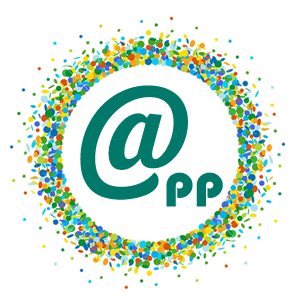
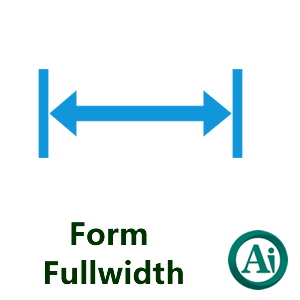
fix #IBV132 app_web_fullwidth升级到18正常，原参考模块已有18版置于目录中 置顶

diff --git a/app_web_fullwidth/static/src/js/form_compiler.js b/app_web_fullwidth/static/src/js/form_compiler.js
@@ -1,123 +1,67 @@
 /** @odoo-module **/
+import { FormCompiler } from "@web/views/form/form_compiler";
+import { patch } from "@web/core/utils/patch";
 
-import {patch} from "@web/core/utils/patch";
-import {append} from "@web/core/utils/xml";
-import {MailFormCompiler} from "@mail/views/form/form_compiler";
-import {FormCompiler} from "@web/views/form/form_compiler";
-import {FormController} from "@web/views/form/form_controller";
-
-patch(MailFormCompiler.prototype, "web_chatter_position", {
-    /**
-     * Patch the visibility of the Sided chatter (`C` above).
-     *
-     * @override
-     */
-    compile() {
-        const res = this._super.apply(this, arguments);
-        const chatterContainerHookXml = res.querySelector(
-            ".o_FormRenderer_chatterContainer"
-        );
-        if (!chatterContainerHookXml) {
-            return res;
-        }
-        // Don't patch anything if the setting is "auto": this is the core behaviour
-        if (odoo.web_chatter_position === "auto") {
-            return res;
-        } else if (odoo.web_chatter_position === "sided") {
-            chatterContainerHookXml.setAttribute("t-if", "!hasAttachmentViewer()");
-        } else if (odoo.web_chatter_position === "bottom") {
-            chatterContainerHookXml.setAttribute("t-if", false);
-        }
-        return res;
-    },
-});
-
-patch(FormCompiler.prototype, "web_chatter_position", {
-    /**
-     * Patch the css classes of the `Form`, to include an extra `h-100` class.
-     * Without it, the form sheet will not be full height in some situations,
-     * looking a bit weird.
-     *
-     * @override
-     */
-    compileForm() {
-        const res = this._super.apply(this, arguments);
+patch(FormCompiler.prototype, {
+    compileForm(el, params) {
+        const res = super.compileForm(el, params);
         if (odoo.web_chatter_position === "sided") {
             const classes = res.getAttribute("t-attf-class");
-            res.setAttribute("t-attf-class", `${classes} h-100`);
+            const newClasses = classes.replace('{{ __comp__.uiService.size < 6 ? "flex-column" : "flex-nowrap h-100" }}', 'flex-nowrap h-100')
+            res.setAttribute("t-attf-class", `${newClasses}`);
+            return res;
         }
+
+        else if (odoo.web_chatter_position === "bottom") {
+            const classes = res.getAttribute("t-attf-class");
+            const formView = res.getElementsByClassName('o_form_sheet_bg')[0];
+
+            if (formView) {
+                formView.classList.add('customBottom');
+                const formParent = formView.parentElement;
+
+                if (formParent) {
+                    const chatter = formParent.querySelector('.o-mail-Form-chatter');
+                    if (chatter) {
+                        chatter.classList.add('customBottom');
+                    }
+                }
+
+                const newClasses = classes.replace('{{ __comp__.uiService.size < 6 ? "flex-column" : "flex-nowrap h-100" }}', 'flex-column');
+                res.setAttribute("t-attf-class", `${newClasses}`);
+            }
+
+            return res;
+        }
+
         return res;
     },
-    /**
-     * Patch the visibility of bottom chatters (`A` and `B` above).
-     * `B` may not exist in some situations, so we ensure it does by creating it.
-     *
-     * @override
-     */
+
     compile(node, params) {
-        const res = this._super.apply(this, arguments);
-        const chatterContainerHookXml = res.querySelector(
-            ".o_FormRenderer_chatterContainer:not(.o-isInFormSheetBg)"
-        );
+        const res = super.compile(node, params);
+
+        const chatterContainerHookXml = res.querySelector(".o-mail-Form-chatter");
         if (!chatterContainerHookXml) {
-            return res;
+            return res; // no chatter, keep the result as it is
         }
-        if (chatterContainerHookXml.parentNode.classList.contains("o_form_sheet")) {
-            return res;
+
+        if (odoo.web_chatter_position === "sided") {
+            const classes = chatterContainerHookXml.getAttribute("t-attf-class")
+            if(classes){
+                const newClasses = classes.replace('{{ __comp__.uiService.size >= 6 ? "o-aside" : "mt-4 mt-md-0" }}', 'o-aside')
+                res.setAttribute("t-attf-class", `${newClasses}`);
+            }
+            return res
         }
-        // Don't patch anything if the setting is "auto": this is the core behaviour
-        if (odoo.web_chatter_position === "auto") {
-            return res;
-            // For "sided", we have to remote the bottom chatter
-            // (except if there is an attachment viewer, as we have to force bottom)
-        } else if (odoo.web_chatter_position === "sided") {
-            const formSheetBgXml = res.querySelector(".o_form_sheet_bg");
-            if (!formSheetBgXml) {
-                return res;
+        else if (odoo.web_chatter_position === "bottom") {
+            const classes = chatterContainerHookXml.getAttribute("t-attf-class")
+            if(classes){
+                const newClasses = classes.replace('{{ __comp__.uiService.size >= 6 ? "o-aside" : "mt-4 mt-md-0" }}', 'mt-4 mt-md-0')
+                res.setAttribute("t-attf-class", `${newClasses}`);
             }
-            chatterContainerHookXml.setAttribute("t-if", false);
-            // For "bottom", we keep the chatter in the form sheet
-            // (the one used for the attachment viewer case)
-            // If it's not there, we create it.
-        } else if (odoo.web_chatter_position === "bottom") {
-            if (params.hasAttachmentViewerInArch) {
-                const sheetBgChatterContainerHookXml = res.querySelector(
-                    ".o_FormRenderer_chatterContainer.o-isInFormSheetBg"
-                );
-                sheetBgChatterContainerHookXml.setAttribute("t-if", true);
-                chatterContainerHookXml.setAttribute("t-if", false);
-            } else {
-                const formSheetBgXml = res.querySelector(".o_form_sheet_bg");
-                if (!formSheetBgXml) {
-                    return res;
-                }
-                const sheetBgChatterContainerHookXml =
-                    chatterContainerHookXml.cloneNode(true);
-                sheetBgChatterContainerHookXml.classList.add("o-isInFormSheetBg");
-                sheetBgChatterContainerHookXml.setAttribute("t-if", true);
-                append(formSheetBgXml, sheetBgChatterContainerHookXml);
-                const sheetBgChatterContainerXml =
-                    sheetBgChatterContainerHookXml.querySelector("ChatterContainer");
-                sheetBgChatterContainerXml.setAttribute("isInFormSheetBg", "true");
-                chatterContainerHookXml.setAttribute("t-if", false);
-            }
+            return res
         }
         return res;
     },
 });
 
-patch(FormController.prototype, "web_chatter_position", {
-    /**
-     * Patch the css classes of the form container, to include an extra `flex-row` class.
-     * Without it, it'd go for flex columns direction and it won't look good.
-     *
-     * @override
-     */
-    get className() {
-        const result = this._super();
-        if (odoo.web_chatter_position === "sided") {
-            result["flex-row"] = true;
-        }
-        return result;
-    },
-});

diff --git a/app_web_fullwidth/static/src/scss/app_style_after.scss b/app_web_fullwidth/static/src/scss/app_style_after.scss
@@ -8,60 +8,16 @@
 
 //16 是在 xxl 才 flex row，故不需要再特殊处理了
 
-/*
-sheet全宽
-*/
-@media (min-width: 576px) {
-  .o_form_view .o_form_view_container .o_form_sheet_bg .o_form_sheet {
-    max-width: 98%;
-  }
-}
-
-@media (min-width: 768px) {
-  .o_form_view .o_form_view_container .o_form_sheet_bg .o_form_sheet {
-    max-width: 98%;
-  }
-}
-
-@media (min-width: 992px) {
-  .o_form_view .o_form_view_container .o_form_sheet_bg .o_form_sheet {
-    max-width: 98%;
-  }
-}
-
-@media (min-width: 1200px) {
-  .o_form_view .o_form_view_container .o_form_sheet_bg .o_form_sheet {
-    max-width: 98%;
-  }
-}
-
 @media (min-width: 1400px) {
-  .o_form_view .o_form_view_container .o_form_sheet_bg .o_form_sheet {
-    max-width: 98%;
-    //todo: button box 增加数量，当前无效。 button_box.js 中有 visibleButtons
-    //.o-form-buttonbox .btn.oe_stat_button, .o-form-buttonbox > .o_field_widget  {
-    //  width: 10%;
-    //}
+  .o-mail-Form-chatter.customBottom {
+    width: 100% !important;
   }
-}
-.o_web_client .o_form_view.o_xxl_form_view .o_form_sheet_bg > .o_form_sheet {
-  max-width: 98%;
-}
 
-//xs: 0,
-//vsm: 475px,
-//sm: 576px,
-//md: 768px,
-//lg: 992px,
-//xl: 1200px,
-//xxl: 1534px,
+  .o_form_view.o_xxl_form_view .customBottom {
+    flex: auto !important;
+  }
 
-//debug model 时处理
-.modal-lg {
-    .o_debug_manager {
-        .dropdown-menu-right {
-            right: auto;
-            left: 0;
-        }
-    }
+  .o_form_view .customBottom {
+    max-width: none !important;
+  }
 }

diff --git a/app_web_enterprise/static/src/scss/app_style_after.scss b/app_web_enterprise/static/src/scss/app_style_after.scss
@@ -1,3 +1,4 @@
+
 // 不显示 tooltip
 .o_tooltip.o_tooltip_visible  {
   display: none;
@@ -67,38 +68,24 @@
       }
     .o_form_sheet_bg .o_form_sheet {
       margin: 6px auto;
-      max-width: 98%;
     }
   }
 }
 
 @media (min-width: 768px) {
-  .o_form_view .o_form_view_container .o_form_sheet_bg .o_form_sheet {
-    max-width: 98%;
-  }
-  .o_form_view .o_form_view_container .o_notebook .o_notebook_headers {
-    overflow-x: inherit;
+  .o_form_view .o_form_view_container .o_notebook {
+    //优化 page 头滚动
+    .o_notebook_headers {
+      overflow-x: inherit;
+    }
+
+    //优化 table 的竖滚动
+    .o_list_renderer.table-responsive {
+      overflow-y: clip;
+    }
   }
 }
 
-@media (min-width: 992px) {
-  .o_form_view .o_form_view_container .o_form_sheet_bg .o_form_sheet {
-    max-width: 98%;
-  }
-}
-
-@media (min-width: 1200px) {
-  .o_form_view .o_form_view_container .o_form_sheet_bg .o_form_sheet {
-    max-width: 98%;
-  }
-}
-
-
-@media (min-width: 1400px) {
-  .o_form_view .o_form_view_container .o_form_sheet_bg .o_form_sheet {
-    max-width: 98%;
-  }
-}
 // 编辑模式默认 input下方border 有颜色。必填的深色
 .o_form_view {
   .o_form_view_container {
@@ -164,7 +151,11 @@
 .o_notebook {
   --notebook-link-border-color-active: #{$border-color};
   .nav-link.active, .nav-link.active:hover, .nav-link.active:focus, .nav-link.active:active {
-    border-bottom: 1.5px solid #{$o-brand-lightsecondary};
+    border-left-color: var(--notebook-link-border-color-active-accent, var(--notebook-link-border-color-active));
+    border-right-color: var(--notebook-link-border-color-active-accent, var(--notebook-link-border-color-active));
+    @media (max-width: 768px) {
+      border-bottom: 1.5px solid #{$o-brand-lightsecondary};
+    }
   }
 }
 //end form

diff --git a/app_web_fullwidth/static/description/index.html b/app_web_fullwidth/static/description/index.html
@@ -1,3 +1,18 @@
+<?xml version="1.0" encoding="utf-8"?>
+<!--
+# -*- coding: utf-8 -*-
+##############################################################################
+# Copyright (C) 2009~2024 odooAi.cn
+##############################################################################
+-->
+<html>
+<!-- begin title-->
+<section class="oe_container container o_cc o_cc2">
+    <h2 class="text-center bg-warning text-white pt24 pb24">Web Form Fullwidth-表单表格全宽度满屏，30%可视数据提升</h2>
+    <h3 class="text-center">Chatter Position-自定义备注消息位置</h3>
+    <h4 class="text-center">可配置的全屏详情界面，便于在表单Form中显示更多的数据列</h4>
+</section>
+
 <section class="oe_container container">
     <div class="oe_row oe_spaced" style="max-width: 95%;">
         <div class="row">
@@ -36,6 +51,11 @@
         </div>
         <div class="oe_demo oe_screenshot img img-fluid">
             <img src="demo4.jpg" style="border:1px solid black"/>
+            <br/>
+        </div>
+        <h4>Easy set all company user UI for chatter position</h4>
+        <div class="oe_demo oe_screenshot img img-fluid">
+            <img src="demo5.jpg" style="border:1px solid black"/>
             <br/>
         </div>
     </div>
@@ -116,5 +136,4 @@
     </div>
 </section>
 
-<section class="oe_container oe_separator">
-</section>
+</html>

diff --git a/app_web_fullwidth/__manifest__.py b/app_web_fullwidth/__manifest__.py
@@ -21,8 +21,8 @@
 # https://www.odooai.cn/odoo10_developer_document_offline/
 
 {
-    'name': 'Web Form Fullwidth, Full screen full width. Chatter Position ',
-    'version': '18.0.25.03.14',
+    'name': 'Web Form Fullwidth.Chatter Position-表单表格全宽度满屏,自定义备注消息位置',
+    'version': '18.0.25.04.05',
     'category': 'Extra tools',
     'author': 'odooai.cn',
     'website': 'https://www.odooai.cn',
@@ -33,7 +33,7 @@
     "currency": "EUR",
     'images': ['static/description/banner.png'],
     'summary': """
-    Chatter Position set and Form Responsive full screen, full width (fullwidth).
+    Chatter Position set and Form Responsive full screen, full width (fullwidth). Form Full screen full width.
     Ready for small, medium, large, extra large screen.Ready for enterprise and communicate version.
     Easy config the chatter position to bottom or side or Responsive.
     """,
@@ -52,8 +52,8 @@
     ],
     'assets': {
         'web.assets_backend': [
-            # ('after', 'web/static/src/views/**/*', 'app_web_fullwidth/static/src/scss/app_style_after.scss'),
-            # '/app_web_fullwidth/static/src/js/*.js'
+            ('after', 'web/static/src/views/**/*', 'app_web_fullwidth/static/src/scss/app_style_after.scss'),
+            '/app_web_fullwidth/static/src/js/form_compiler.js'
         ],
     },
 

diff --git a/app_web_enterprise/__manifest__.py b/app_web_enterprise/__manifest__.py
@@ -18,7 +18,7 @@
 
 {
     'name': "!odoo18 Enterprise enhance Pack,企业版界面及操作增强",
-    'version': '18.0.25.04.03',
+    'version': '18.0.25.04.05',
     'author': 'odooai.cn',
     'category': 'Extra tools',
     'website': 'https://www.odooai.cn',